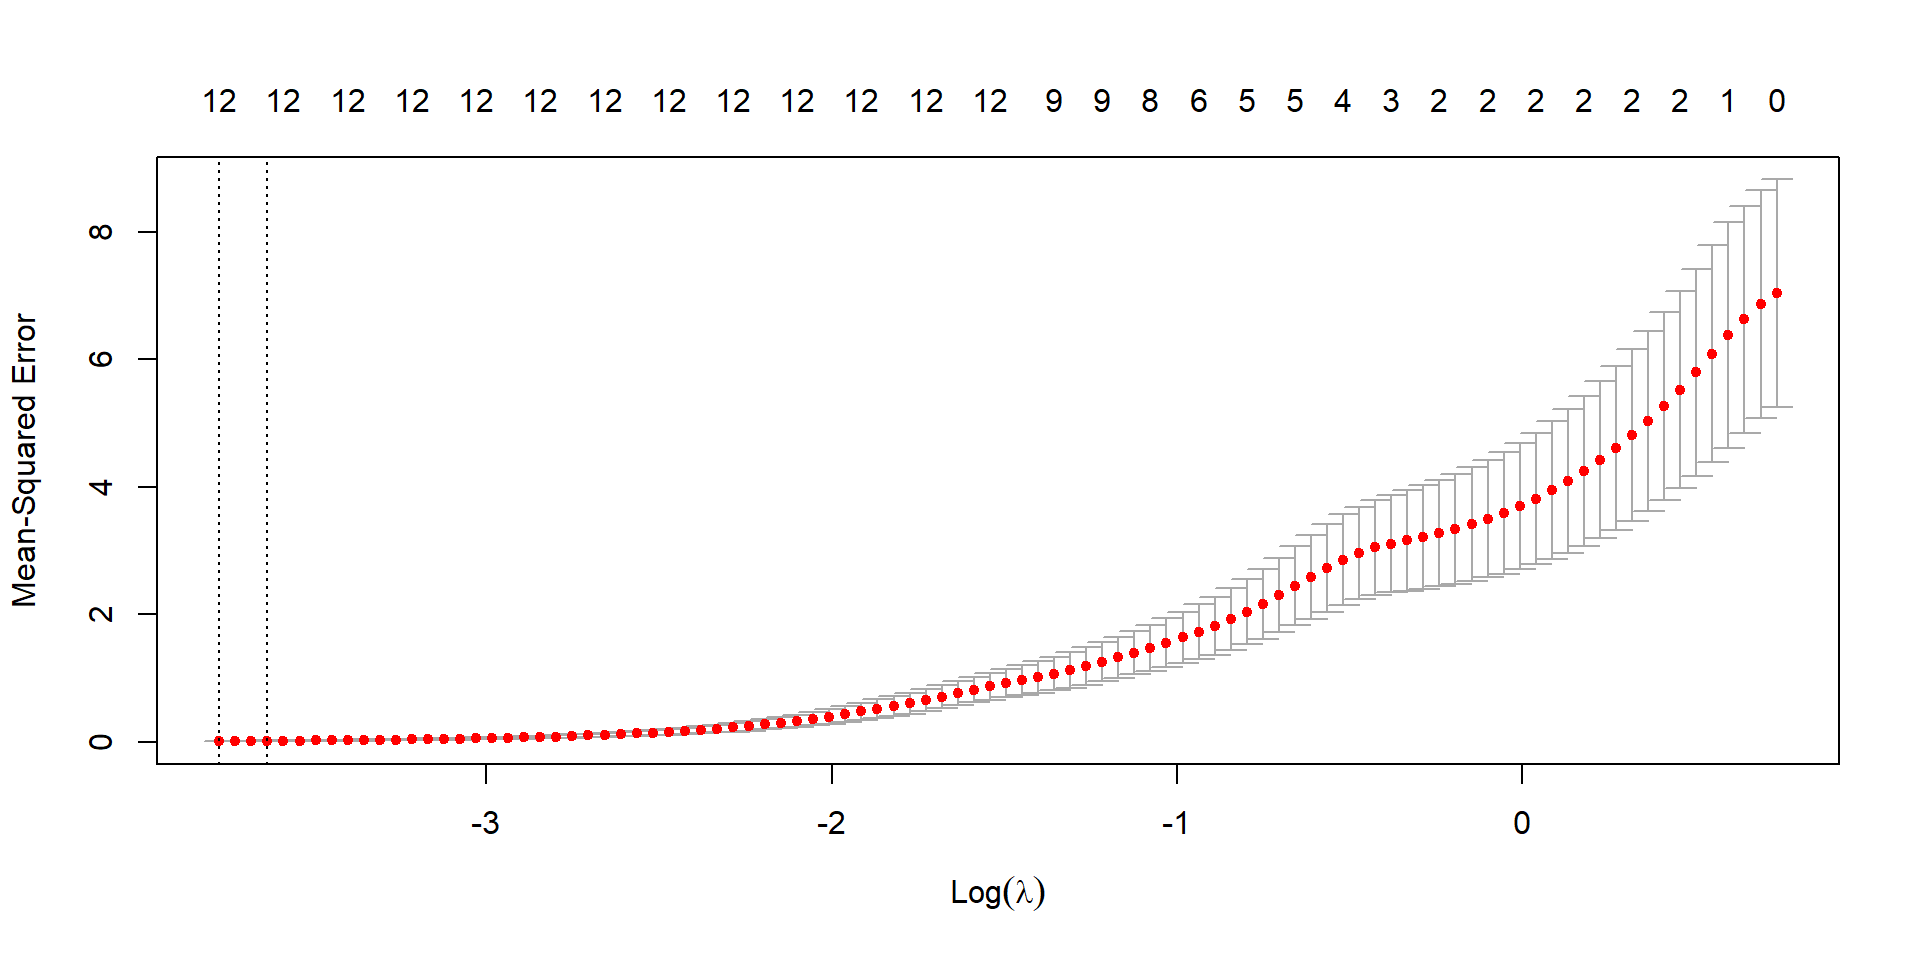
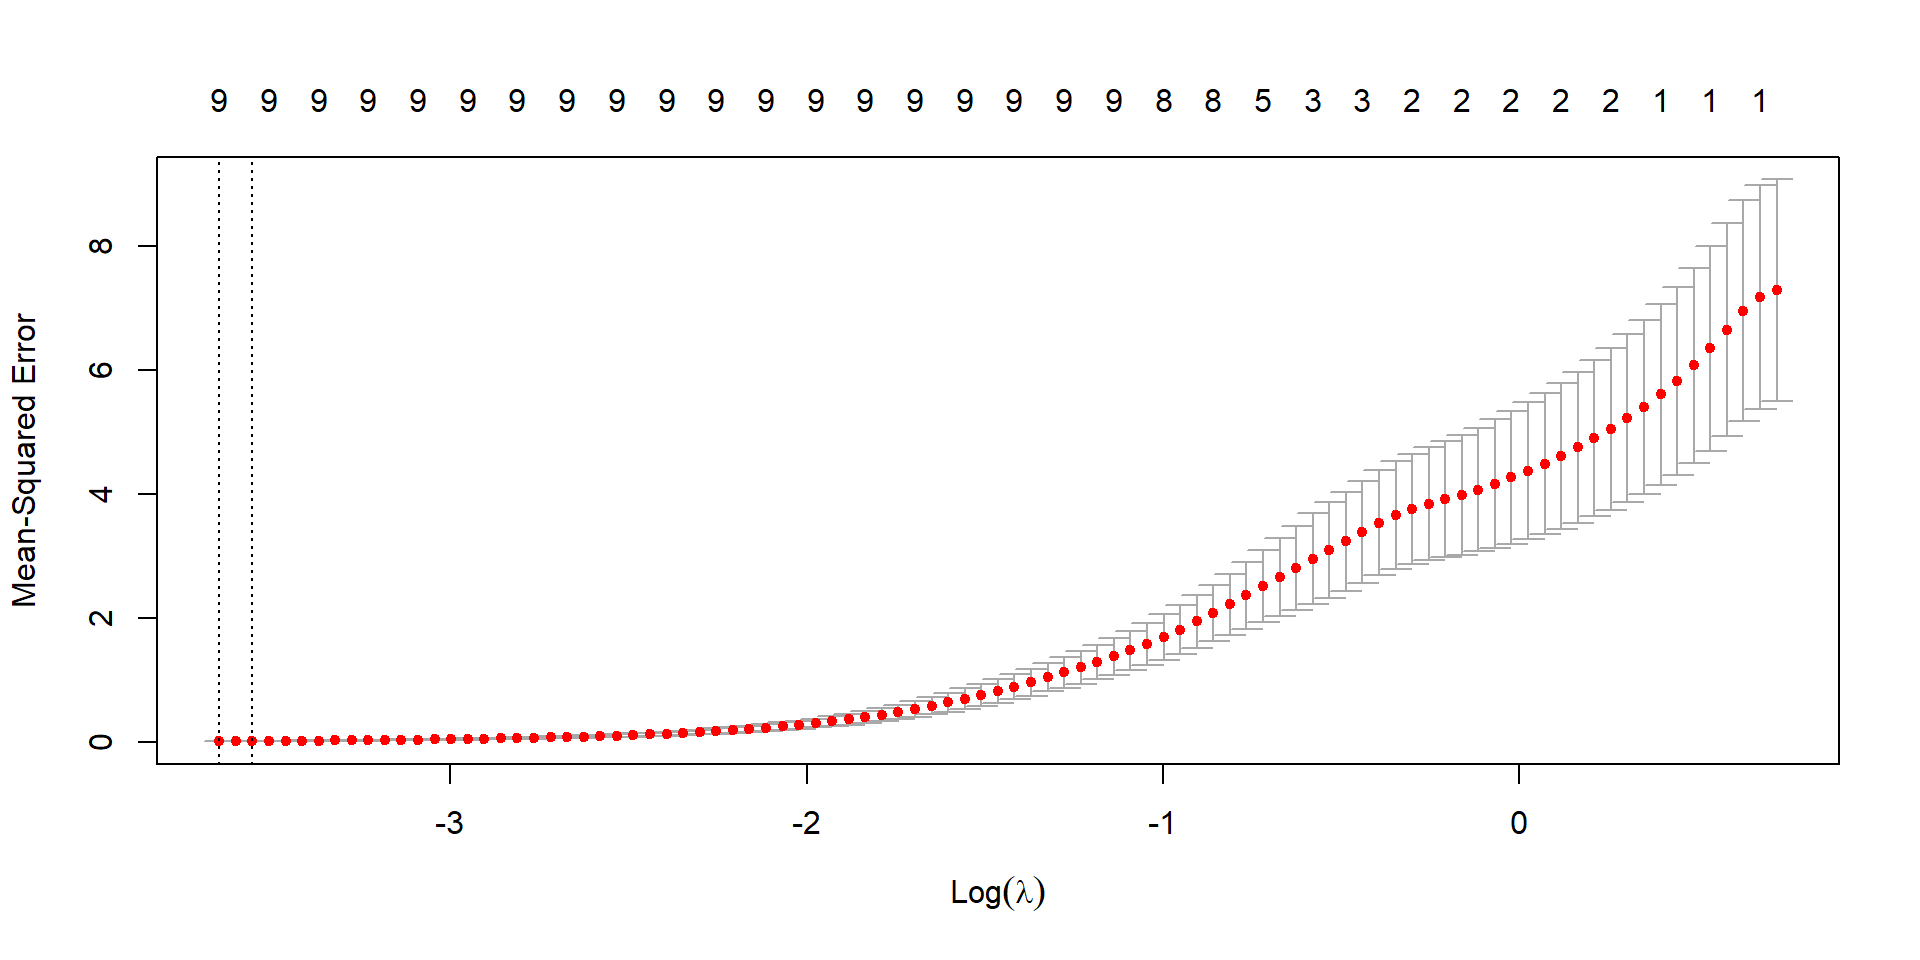
kat updates

diff --git a/LASSOPres.html b/LASSOPres.html
@@ -326,21 +326,57 @@
 
 <section id="introduction-linear-regression-overview" class="slide level2">
 <h2>Introduction / Linear Regression Overview</h2>
+<p><em>Regression</em> is the predicting or learning of numerical features in statistics and machine learning which allows for data driven decisions over guesswork.</p>
+<p><em>Simple linear regression</em> is the relationship between one dependent variable and one independent variable to create a linear model that can be used to predict future outcomes.</p>
+<p><em>Multilinear regression</em> is more complex with the addition of more independent variables.</p>
+<p>An issue can arise as the number of independent variables becomes too high resulting in less predictability which can be solved with <em>regularization</em>.</p>
 </section>
 <section id="what-is-regularization" class="slide level2">
 <h2>What Is Regularization?</h2>
+<p>The process managing the independent variables in a way that maintains predictability.</p>
+<p>Regression models that contain too many independent variables can have an issue with the linear model not fitting or predicting well.</p>
+<p><u><strong>Overfitting</strong></u> the model is too close to the data provided which can cause a problem with different data sets and predicting future values</p>
+<p><u><strong>Underfitting</strong></u> the model is not close enough to the current data to determine accurate predictions</p>
+<p>To regularize models, we must manage the number and impact of independent variables. We can reduce the coefficients of the variables which decreases the impact of less important variables or eliminate the less impactful variables all together.</p>
 </section>
 <section id="regularized-regression-methods" class="slide level2">
 <h2>Regularized Regression Methods</h2>
+<p>Three regularized regression methods are</p>
+<p>Ridge, Elastic Net, and LASSO.</p>
 </section>
 <section id="ridge-regression" class="slide level2">
 <h2>Ridge Regression</h2>
+<ul>
+<li><p>Reduces the impact of the variables that are not as important in the prediction of the model by reducing the value of the coefficients to near zero</p></li>
+<li><p>Can manage data sets in which the number of independent variables is greater than the number of observations in the data set. ( <span class="math inline">\(p&gt;n\)</span>)</p></li>
+<li><p>Does not preform variable selection as all independent variables remain the model</p></li>
+<li><p>Ridge regression uses a variable <span class="math inline">\(\lambda _{Ridge}\)</span>which is the determining value in the reduction the coefficients</p></li>
+</ul>
 </section>
 <section id="lasso" class="slide level2">
 <h2>LASSO</h2>
+<ul>
+<li><p><strong>L</strong>east <strong>A</strong>bsolute <strong>S</strong>hrinkage and <strong>S</strong>election <strong>O</strong>perator</p></li>
+<li><p>Performs variable selection eliminating independent variables by reducing their coefficients to zero</p></li>
+<li><p>If collinearity exists, only one independent variable is kept in the model and the rest are discarded by reducing their coefficients to zero</p>
+<ul>
+<li>This can be a problem is data sets with a lot of collinearity</li>
+</ul></li>
+<li><p>Cannot keep more predictors than observations therefore only recommended for data sets where the number of predictors is less than the number of observations (<span class="math inline">\(p&lt;n\)</span>)</p></li>
+<li><p>LASSO uses a variable we will call <span class="math inline">\(\lambda _{LASSO}\)</span> to eliminate the coefficients</p></li>
+</ul>
 </section>
 <section id="elastic-net-regularization" class="slide level2">
 <h2>Elastic Net Regularization</h2>
+<ul>
+<li><p>Determined by a sliding scale that exists between ridge and LASSO by selecting an <span class="math inline">\(\alpha\)</span> between 1 and 0</p>
+<ul>
+<li><span class="math inline">\(\alpha=0\)</span> indicates ridge regression and <span class="math inline">\(\alpha=1\)</span> indicates LASSO</li>
+</ul></li>
+<li><p>Can perform variable selection</p></li>
+<li><p>Can work when the number of independent variables is greater than the number of observations in the data set. (<span class="math inline">\(p&gt;n\)</span>)</p></li>
+<li><p>Elastic net uses a balance of both the <span class="math inline">\(\lambda _{Ridge}\)</span> and <span class="math inline">\(\lambda _{LASSO}\)</span></p></li>
+</ul>
 </section>
 <section id="dataset-overview" class="slide level2">
 <h2>Dataset Overview</h2>
@@ -404,8 +440,8 @@ ALL 74 residuals are 0: no residual degrees of freedom!
 
 Coefficients: (24 not defined because of singularities)
                                      Estimate Std. Error t value Pr(&gt;|t|)
-(Intercept)                         7.819e-09        NaN     NaN      NaN
-pf_rol                             -7.150e-10        NaN     NaN      NaN
+(Intercept)                        -2.638e-07        NaN     NaN      NaN
+pf_rol                             -1.773e-08        NaN     NaN      NaN
 pf_ss_disappearances_disap         -2.000e-01        NaN     NaN      NaN
 pf_ss_disappearances_violent       -2.000e-01        NaN     NaN      NaN
 pf_ss_disappearances_organized     -2.000e-01        NaN     NaN      NaN
@@ -417,84 +453,84 @@ pf_ss_women_missing                -3.333e-01        NaN     NaN      NaN
 pf_ss_women_inheritance            -3.333e-01        NaN     NaN      NaN
 pf_ss_women                                NA         NA      NA       NA
 pf_ss                               3.000e+00        NaN     NaN      NaN
-pf_movement_domestic                5.937e-10        NaN     NaN      NaN
-pf_movement_foreign                -3.190e-10        NaN     NaN      NaN
-pf_movement_women                   6.955e-10        NaN     NaN      NaN
+pf_movement_domestic               -1.718e-10        NaN     NaN      NaN
+pf_movement_foreign                -1.225e-09        NaN     NaN      NaN
+pf_movement_women                   7.464e-09        NaN     NaN      NaN
 pf_movement                                NA         NA      NA       NA
-pf_religion_estop                   5.477e-10        NaN     NaN      NaN
-pf_religion_harassment              2.430e-10        NaN     NaN      NaN
-pf_religion_restrictions            1.077e-10        NaN     NaN      NaN
+pf_religion_estop                  -2.359e-09        NaN     NaN      NaN
+pf_religion_harassment             -1.006e-08        NaN     NaN      NaN
+pf_religion_restrictions            4.734e-09        NaN     NaN      NaN
 pf_religion                                NA         NA      NA       NA
-pf_association_association          5.709e-10        NaN     NaN      NaN
-pf_association_assembly            -3.023e-10        NaN     NaN      NaN
-pf_association_political            9.072e-10        NaN     NaN      NaN
-pf_association_prof                -3.514e-10        NaN     NaN      NaN
-pf_association_sport                4.090e-10        NaN     NaN      NaN
+pf_association_association         -1.069e-08        NaN     NaN      NaN
+pf_association_assembly             2.978e-09        NaN     NaN      NaN
+pf_association_political            5.311e-09        NaN     NaN      NaN
+pf_association_prof                -3.293e-09        NaN     NaN      NaN
+pf_association_sport                2.419e-09        NaN     NaN      NaN
 pf_association                             NA         NA      NA       NA
-pf_expression_killed               -1.914e-10        NaN     NaN      NaN
-pf_expression_jailed                2.570e-10        NaN     NaN      NaN
-pf_expression_influence             4.837e-10        NaN     NaN      NaN
-pf_expression_control              -2.890e-09        NaN     NaN      NaN
-pf_expression_cable                 8.236e-11        NaN     NaN      NaN
-pf_expression_newspapers           -1.397e-09        NaN     NaN      NaN
-pf_expression_internet              3.503e-10        NaN     NaN      NaN
+pf_expression_killed               -9.895e-10        NaN     NaN      NaN
+pf_expression_jailed               -4.846e-09        NaN     NaN      NaN
+pf_expression_influence             7.170e-09        NaN     NaN      NaN
+pf_expression_control               1.303e-08        NaN     NaN      NaN
+pf_expression_cable                 8.361e-09        NaN     NaN      NaN
+pf_expression_newspapers           -4.819e-09        NaN     NaN      NaN
+pf_expression_internet             -5.114e-09        NaN     NaN      NaN
 pf_expression                              NA         NA      NA       NA
-pf_identity_parental_marriage      -1.098e-09        NaN     NaN      NaN
-pf_identity_parental_divorce        3.940e-10        NaN     NaN      NaN
+pf_identity_parental_marriage       1.309e-08        NaN     NaN      NaN
+pf_identity_parental_divorce       -5.078e-09        NaN     NaN      NaN
 pf_identity_parental                       NA         NA      NA       NA
-pf_identity_sex_male                4.313e-12        NaN     NaN      NaN
-pf_identity_sex_female             -5.664e-10        NaN     NaN      NaN
+pf_identity_sex_male               -1.073e-09        NaN     NaN      NaN
+pf_identity_sex_female              5.119e-09        NaN     NaN      NaN
 pf_identity_sex                            NA         NA      NA       NA
-pf_identity                         1.602e-09        NaN     NaN      NaN
-ef_government_consumption          -7.165e-10        NaN     NaN      NaN
-ef_government_transfers             7.607e-10        NaN     NaN      NaN
-ef_government_enterprises           3.693e-10        NaN     NaN      NaN
-ef_government_tax_income            1.388e-10        NaN     NaN      NaN
-ef_government_tax_payroll          -5.209e-10        NaN     NaN      NaN
+pf_identity                        -1.372e-08        NaN     NaN      NaN
+ef_government_consumption           5.772e-10        NaN     NaN      NaN
+ef_government_transfers            -7.590e-10        NaN     NaN      NaN
+ef_government_enterprises           1.169e-09        NaN     NaN      NaN
+ef_government_tax_income           -1.162e-09        NaN     NaN      NaN
+ef_government_tax_payroll           1.470e-09        NaN     NaN      NaN
 ef_government_tax                          NA         NA      NA       NA
 ef_government                              NA         NA      NA       NA
-ef_legal_judicial                   6.111e-10        NaN     NaN      NaN
-ef_legal_courts                    -2.442e-09        NaN     NaN      NaN
-ef_legal_protection                -5.481e-10        NaN     NaN      NaN
-ef_legal_military                  -7.406e-10        NaN     NaN      NaN
-ef_legal_integrity                 -1.386e-09        NaN     NaN      NaN
-ef_legal_enforcement               -1.466e-09        NaN     NaN      NaN
-ef_legal_restrictions              -8.559e-10        NaN     NaN      NaN
-ef_legal_police                    -1.571e-09        NaN     NaN      NaN
-ef_legal_crime                     -4.936e-10        NaN     NaN      NaN
-ef_legal_gender                    -1.981e-08        NaN     NaN      NaN
-ef_legal                            6.498e-09        NaN     NaN      NaN
-ef_money_growth                    -7.919e-11        NaN     NaN      NaN
-ef_money_sd                        -1.658e-10        NaN     NaN      NaN
-ef_money_inflation                  5.972e-10        NaN     NaN      NaN
-ef_money_currency                   4.861e-10        NaN     NaN      NaN
+ef_legal_judicial                   4.306e-09        NaN     NaN      NaN
+ef_legal_courts                     2.250e-08        NaN     NaN      NaN
+ef_legal_protection                 3.621e-09        NaN     NaN      NaN
+ef_legal_military                   1.865e-08        NaN     NaN      NaN
+ef_legal_integrity                  1.864e-08        NaN     NaN      NaN
+ef_legal_enforcement                2.237e-08        NaN     NaN      NaN
+ef_legal_restrictions               2.424e-08        NaN     NaN      NaN
+ef_legal_police                     2.754e-08        NaN     NaN      NaN
+ef_legal_crime                      1.306e-08        NaN     NaN      NaN
+ef_legal_gender                     3.191e-07        NaN     NaN      NaN
+ef_legal                           -1.490e-07        NaN     NaN      NaN
+ef_money_growth                    -8.158e-09        NaN     NaN      NaN
+ef_money_sd                        -7.856e-10        NaN     NaN      NaN
+ef_money_inflation                  6.336e-09        NaN     NaN      NaN
+ef_money_currency                  -2.461e-09        NaN     NaN      NaN
 ef_money                                   NA         NA      NA       NA
-ef_trade_tariffs_revenue           -1.237e-09        NaN     NaN      NaN
-ef_trade_tariffs_mean               2.480e-10        NaN     NaN      NaN
-ef_trade_tariffs_sd                -5.285e-10        NaN     NaN      NaN
+ef_trade_tariffs_revenue            6.377e-09        NaN     NaN      NaN
+ef_trade_tariffs_mean               9.184e-12        NaN     NaN      NaN
+ef_trade_tariffs_sd                -8.738e-10        NaN     NaN      NaN
 ef_trade_tariffs                           NA         NA      NA       NA
-ef_trade_regulatory_nontariff       9.782e-10        NaN     NaN      NaN
-ef_trade_regulatory_compliance      2.499e-10        NaN     NaN      NaN
+ef_trade_regulatory_nontariff      -8.392e-09        NaN     NaN      NaN
+ef_trade_regulatory_compliance     -1.149e-08        NaN     NaN      NaN
 ef_trade_regulatory                        NA         NA      NA       NA
-ef_trade_black                      2.232e-10        NaN     NaN      NaN
-ef_trade_movement_foreign          -1.101e-09        NaN     NaN      NaN
-ef_trade_movement_capital          -4.536e-10        NaN     NaN      NaN
-ef_trade_movement_visit             1.109e-10        NaN     NaN      NaN
+ef_trade_black                      4.937e-10        NaN     NaN      NaN
+ef_trade_movement_foreign           1.806e-08        NaN     NaN      NaN
+ef_trade_movement_capital           1.733e-09        NaN     NaN      NaN
+ef_trade_movement_visit             2.579e-09        NaN     NaN      NaN
 ef_trade_movement                          NA         NA      NA       NA
 ef_trade                                   NA         NA      NA       NA
-ef_regulation_credit_ownership     -5.016e-10        NaN     NaN      NaN
-ef_regulation_credit_private       -4.360e-10        NaN     NaN      NaN
-ef_regulation_credit_interest       8.876e-11        NaN     NaN      NaN
+ef_regulation_credit_ownership     -3.965e-10        NaN     NaN      NaN
+ef_regulation_credit_private       -8.776e-09        NaN     NaN      NaN
+ef_regulation_credit_interest      -6.000e-09        NaN     NaN      NaN
 ef_regulation_credit                       NA         NA      NA       NA
-ef_regulation_labor_minwage         3.454e-10        NaN     NaN      NaN
-ef_regulation_labor_firing          3.295e-12        NaN     NaN      NaN
-ef_regulation_labor_bargain         1.563e-10        NaN     NaN      NaN
-ef_regulation_labor_hours           4.242e-11        NaN     NaN      NaN
-ef_regulation_labor_dismissal      -1.258e-10        NaN     NaN      NaN
-ef_regulation_labor_conscription   -2.075e-10        NaN     NaN      NaN
+ef_regulation_labor_minwage         3.583e-09        NaN     NaN      NaN
+ef_regulation_labor_firing          1.936e-09        NaN     NaN      NaN
+ef_regulation_labor_bargain        -7.408e-09        NaN     NaN      NaN
+ef_regulation_labor_hours          -8.162e-10        NaN     NaN      NaN
+ef_regulation_labor_dismissal       1.056e-09        NaN     NaN      NaN
+ef_regulation_labor_conscription   -5.058e-10        NaN     NaN      NaN
 ef_regulation_labor                        NA         NA      NA       NA
-ef_regulation_business_adm          2.885e-09        NaN     NaN      NaN
-ef_regulation_business_bureaucracy  3.250e-10        NaN     NaN      NaN
+ef_regulation_business_adm         -1.225e-10        NaN     NaN      NaN
+ef_regulation_business_bureaucracy  2.959e-09        NaN     NaN      NaN
 ef_regulation_business_start               NA         NA      NA       NA
 ef_regulation_business_bribes              NA         NA      NA       NA
 ef_regulation_business_licensing           NA         NA      NA       NA
@@ -533,7 +569,7 @@ F-statistic:   NaN on 73 and 0 DF,  p-value: NA</code></pre>
 <p><img data-src="LASSOPres_files/figure-revealjs/unnamed-chunk-4-1.png" width="960"></p>
 </div>
 </div>
-<p>The best Lambda chosen by this model was 0.0279</p>
+<p>The best Lambda chosen by this model was 0.0275</p>
 </section>
 <section id="human-freedom-index-high-dimension-data-5" class="slide level2">
 <h2>Human Freedom Index (High Dimension Data)</h2>
@@ -542,34 +578,32 @@ F-statistic:   NaN on 73 and 0 DF,  p-value: NA</code></pre>
 <div class="cell">
 <div class="cell-output cell-output-stdout">
 <pre><code>    Model Train_RSquare Train_RMSE Test_RSquare  Test_RMSE CoefficientCount
-1   LASSO     0.9990432 0.07278511    0.9976585 0.06238846               13
-2   Ridge     0.5186546 1.63249691    0.3006274 1.07822016               98
-3 ENet.25     0.9879030 0.25879869    0.9302193 0.34058132               38
-4 ENet.50     0.9958414 0.15173866    0.9852695 0.15648105               26
-5 ENet.75     0.9983230 0.09635833    0.9953539 0.08788121               17</code></pre>
+1   LASSO     0.9991181 0.07108391    0.9992912 0.03240711               10
+2   Ridge     0.4871703 1.71410072    0.4862875 0.87246509               98
+3 ENet.25     0.9902910 0.23585026    0.9789709 0.17652182               39
+4 ENet.50     0.9970979 0.12894495    0.9959606 0.07736519               29
+5 ENet.75     0.9988439 0.08138597    0.9988618 0.04106831               19</code></pre>
 </div>
 <div class="cell-output cell-output-stdout">
-<pre><code>                         Predictor           Coefficient
-1                      (Intercept)     0.218357246338484
-2  pf_ss_disappearances_fatalities   -0.0210813300259238
-3    pf_ss_disappearances_injuries  -0.00234287232721286
-4             pf_ss_disappearances    -0.891244531305954
-5                      pf_ss_women    -0.952627373784635
-6                            pf_ss      2.84571026116812
-7           pf_religion_harassment   -0.0198962345797718
-8                      pf_religion -0.000488666737948109
-9             pf_association_sport  -0.00452335465128898
-10            pf_expression_killed   0.00377695414975005
-11                  ef_legal_crime    0.0387247670768028
-12           ef_trade_tariffs_mean   -0.0132306741530616
-13         ef_trade_movement_visit -0.000526530300229909</code></pre>
+<pre><code>                         Predictor          Coefficient
+1                      (Intercept)    0.168200754463578
+2  pf_ss_disappearances_fatalities    -0.02241336174905
+3             pf_ss_disappearances    -0.92243003225701
+4                      pf_ss_women   -0.960591534713684
+5                            pf_ss     2.87146462589872
+6           pf_religion_harassment -0.00580751745324265
+7                      pf_religion  -0.0031112374009115
+8             pf_expression_killed   0.0021236012082239
+9                   ef_legal_crime   0.0297126197065787
+10         ef_trade_movement_visit -0.00245910922765564</code></pre>
 </div>
 </div>
 <h3 id="notes">Notes</h3>
 <ul>
 <li>Pure LASSO had the best fit.</li>
-<li>The model is still potentially overfit.</li>
+<li>The model is still potentially overfit. (13 predictors vs 92 observations)</li>
 <li>Now there are features available for a more refined linear model.</li>
+<li>“Grouped” variables still need to be adjusted for.</li>
 </ul>
 </section>
 <section id="summary-and-conclusion" class="slide level2">
